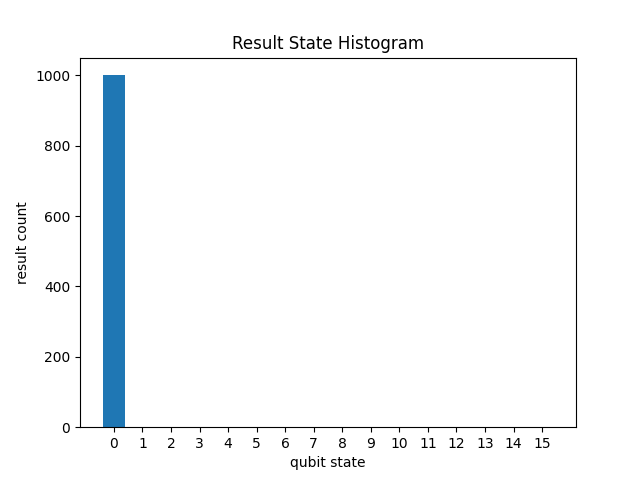
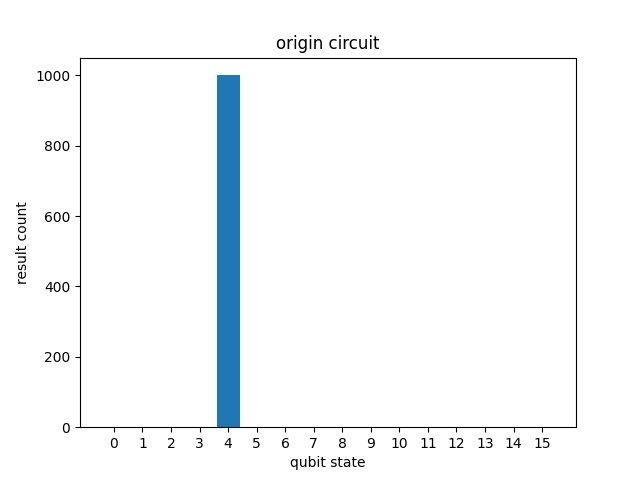
dumping

Changed region(s): [[0.1562, 0.1562, 0.2188, 0.9062], [0.3125, 0.1562, 0.375, 0.9062], [0.3438, 0.0625, 0.6562, 0.125]]

diff --git a/testing.py b/testing.py
@@ -1,5 +1,4 @@
 import matplotlib.pyplot as plt
-
 from transformer import *
 from randomCircuit import *
 
@@ -37,7 +36,6 @@ def simple_test(template):
     print("\nTesting template", template)
     qubits = [LineQubit(i) for i in range(num_qb)]
     origin = generate_random_circuit(qubits, cir_depth, template)
-    origin.append(measure(*qubits, key='result'))
     print("Origin circuit:\n", origin)
 
     opt = transformers_dict[template](origin)
@@ -60,16 +58,20 @@ def compare_circuit_depth(origin, opt):
 
     return
 
+
 def simulator_test(origin, opt):
+    origin.measure_all()
+    opt.measure_all()
     simulator = Simulator()
     origin_result = simulator.run(origin, repetitions=1000)
     opt_result = simulator.run(opt, repetitions=1000)
 
     fig, ax = plt.subplots()  # Create a figure and axis object
-    _ = plot_state_histogram(origin_result, ax)  # Use the axis object to plot the histogram
+    _ = plot_state_histogram(origin_result, ax, title="origin circuit")  # Use the axis object to plot the histogram
     plt.savefig("origin")  # Save the figure
 
     fig, ax = plt.subplots()  # Create a new figure and axis object for the next histogram
-    _ = plot_state_histogram(opt_result, ax)  # Use the axis object to plot the histogram
+    _ = plot_state_histogram(opt_result, ax, title="optimized circuit")  # Use the axis object to plot the histogram
     plt.savefig("opt")
+
     return

diff --git a/main.py b/main.py
@@ -1,13 +1,17 @@
 from testing import *
-
+import cirq
 
 if __name__ == '__main__':
-    # simple_test('b')
+    simple_test('a')
+    simple_test('b')
+    simple_test('c')
+    simple_test('d')
+    simple_test('e')
+    #simple_test('f')
+
     qubits = [cirq.LineQubit(i) for i in range(4)]
     origin = generate_random_circuit(qubits, 6, 'd')
     print(origin)
     opt = two_cx_to_cxx(origin)
     print(opt)
     simulator_test(origin, opt)
-
-

diff --git a/randomCircuit.py b/randomCircuit.py
@@ -47,11 +47,6 @@ def generate_random_circuit(qubits, depth, template):
             operations.extend(template_new)
             template_added = True
             i = len(operations)
-
-    circuit.append(operations)
-
-    for qubit in circuit.all_qubits():
-        circuit.append(measure(qubit))
     return circuit
 
 

diff --git a/transformer.py b/transformer.py
@@ -1,4 +1,3 @@
-import cirq
 from cirq import *
 from customGate import CXX, CXXX
 
